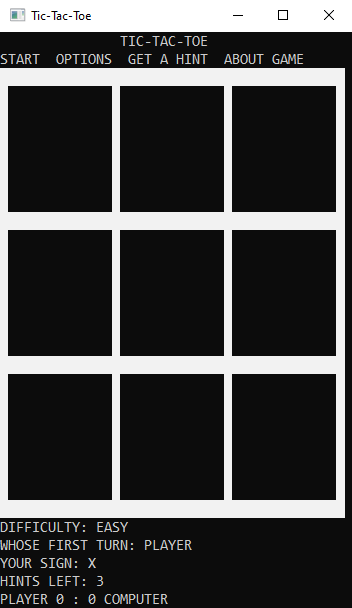
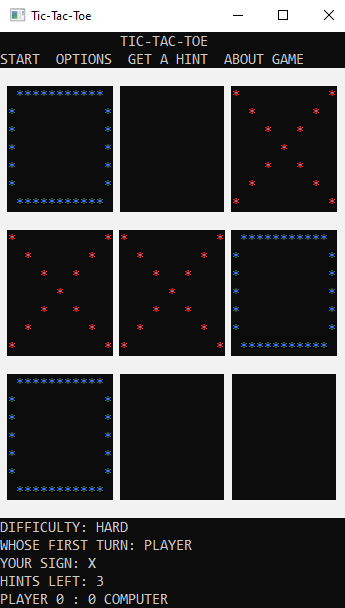
screen photo added

diff --git a/TicTacToe/IO.cpp b/TicTacToe/IO.cpp
@@ -147,16 +147,16 @@ void print_info()
 	COORD t = { 0, FIELD_HEIGHT + 2 };
 	set_cursor_color(WHITE);
 	set_cursor_position(t);
-	cout << "Difficulty: " << convert_difficulty_to_string(difficulty);
+	cout << "DIFFICULTY: " << convert_difficulty_to_string(difficulty);
 	t.Y++;
 	set_cursor_position(t);
-	cout << "Who's first turn: " << convert_turn_to_string(whos_first_turn);
+	cout << "WHOSE FIRST TURN: " << convert_turn_to_string(whose_first_turn);
 	t.Y++;
 	set_cursor_position(t);
-	cout << "Your sign: " << convert_sign_to_char(player_value);
+	cout << "YOUR SIGN: " << convert_sign_to_char(player_value);
 	t.Y++;
 	set_cursor_position(t);
-	cout << "Hints left: " << hints;
+	cout << "HINTS LEFT: " << hints;
 	t.Y++;
 	set_cursor_position(t);
 	cout << "PLAYER " << player_points << " : " << computer_points << " COMPUTER";

diff --git a/TicTacToe/MyMenu.cpp b/TicTacToe/MyMenu.cpp
@@ -35,7 +35,7 @@ void read_elements(MenuBar& mb, string path)
 		mb.mas[i].is_active = convert_char_to_bool(fgetc(f));
 		fgets(temp_str, 100, f);
 		mb.mas[i].text = temp_str;
-		if (compare_str(mb.mas[i].text, convert_difficulty_to_string(difficulty)) || compare_str(mb.mas[i].text, convert_turn_to_string(whos_first_turn)) ||
+		if (compare_str(mb.mas[i].text, convert_difficulty_to_string(difficulty)) || compare_str(mb.mas[i].text, convert_turn_to_string(whose_first_turn)) ||
 			compare_str(mb.mas[i].text, convert_sign_to_char(player_value)))
 			mb.mas[i].is_pressed = true;
 		if (i == 0 || i == mb.size - 1)

diff --git a/TicTacToe/Menus.cpp b/TicTacToe/Menus.cpp
@@ -22,10 +22,10 @@ bool options_action(int index)
 		difficulty = Difficulties::HARD;
 		break;
 	case 6:
-		whos_first_turn = Turns::PLAYER_TURN;
+		whose_first_turn = Turns::PLAYER_TURN;
 		break;
 	case 7:
-		whos_first_turn = Turns::COMP_TURN;
+		whose_first_turn = Turns::COMP_TURN;
 		break;
 	case 9:
 		player_value = Signs::X_SIGN;

diff --git a/TicTacToe/Settings.cpp b/TicTacToe/Settings.cpp
@@ -18,7 +18,7 @@ Signs empty_value = Signs::EMPTY_SIGN;
 
 Difficulties difficulty = Difficulties::EASY;
 
-Turns whos_first_turn = Turns::PLAYER_TURN;
+Turns whose_first_turn = Turns::PLAYER_TURN;
 
 int player_points = 0;
 int computer_points = 0;

diff --git a/TicTacToe/Core.cpp b/TicTacToe/Core.cpp
@@ -380,7 +380,7 @@ void gameover(int state) {
 void play_match(MenuBar mb)
 {
 	int state = States::NOT_END;
-	int last_move = !whos_first_turn;
+	int last_move = !whose_first_turn;
 	is_match = true;
 	hints = 3;
 

diff --git a/TicTacToe/Settings.h b/TicTacToe/Settings.h
@@ -16,7 +16,7 @@ extern Signs empty_value;
 
 extern Difficulties difficulty;
 
-extern Turns whos_first_turn;
+extern Turns whose_first_turn;
 
 extern int player_points;
 extern int computer_points;
